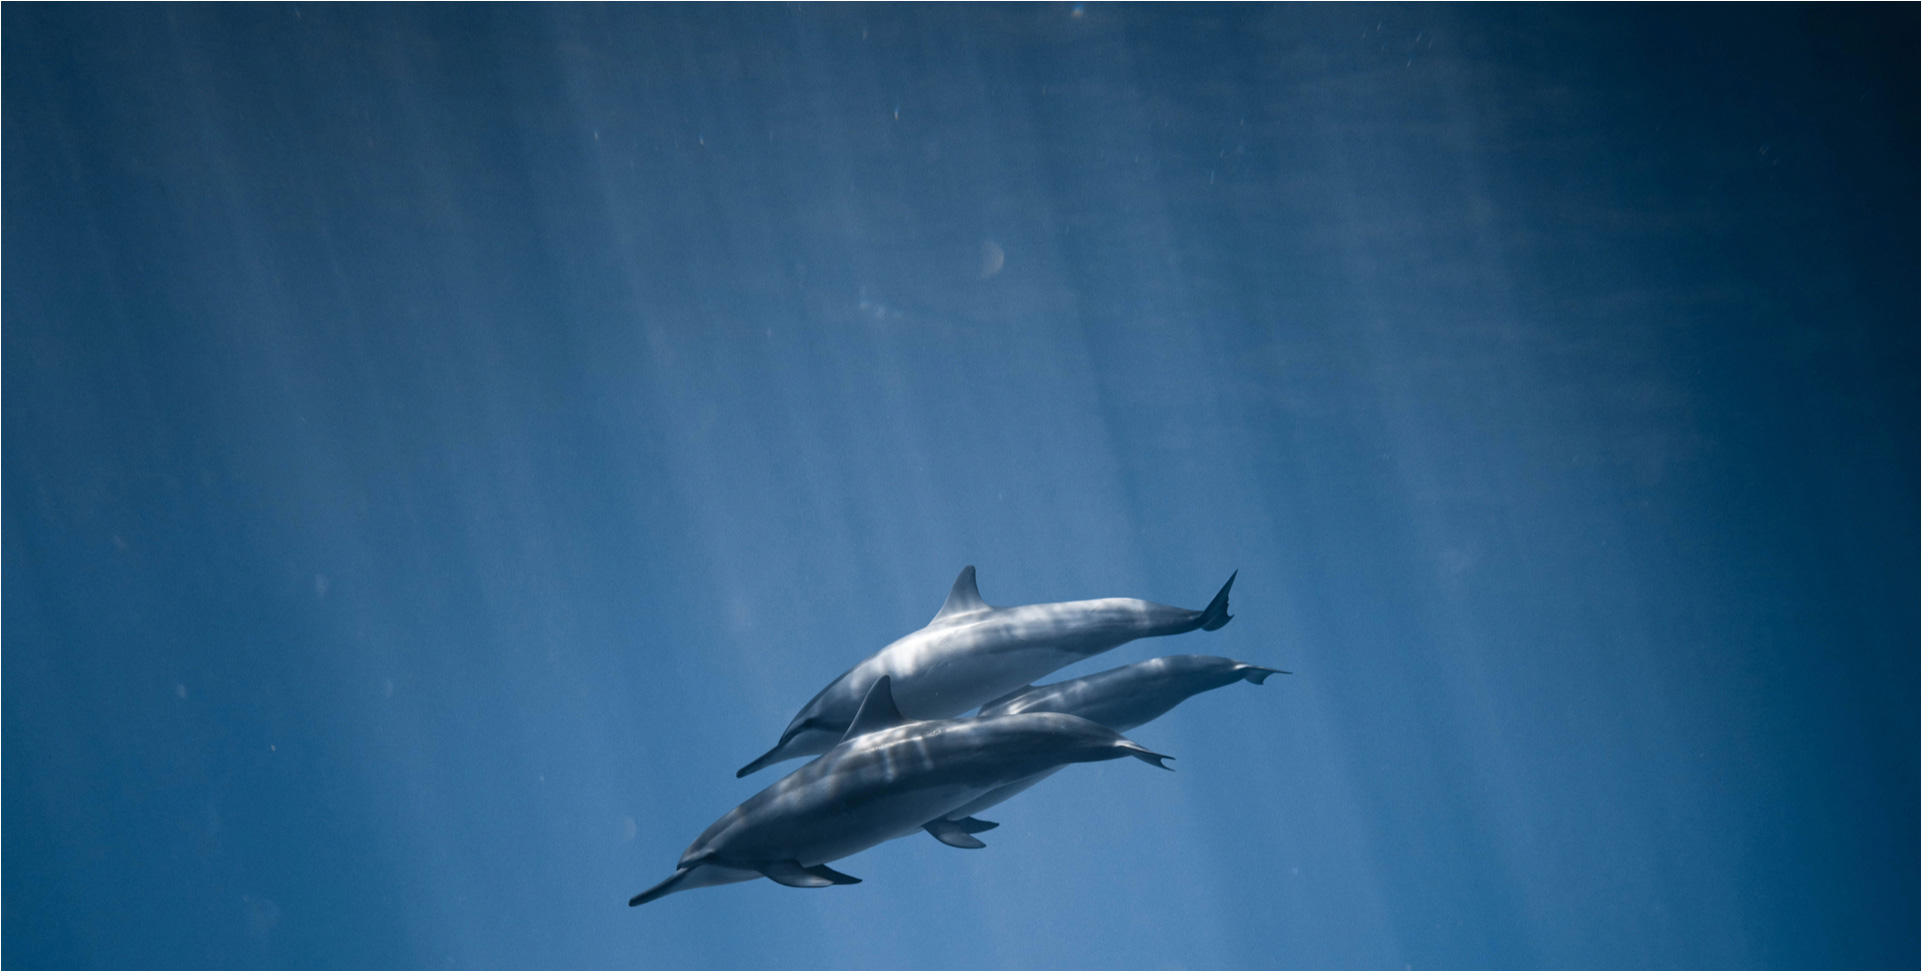
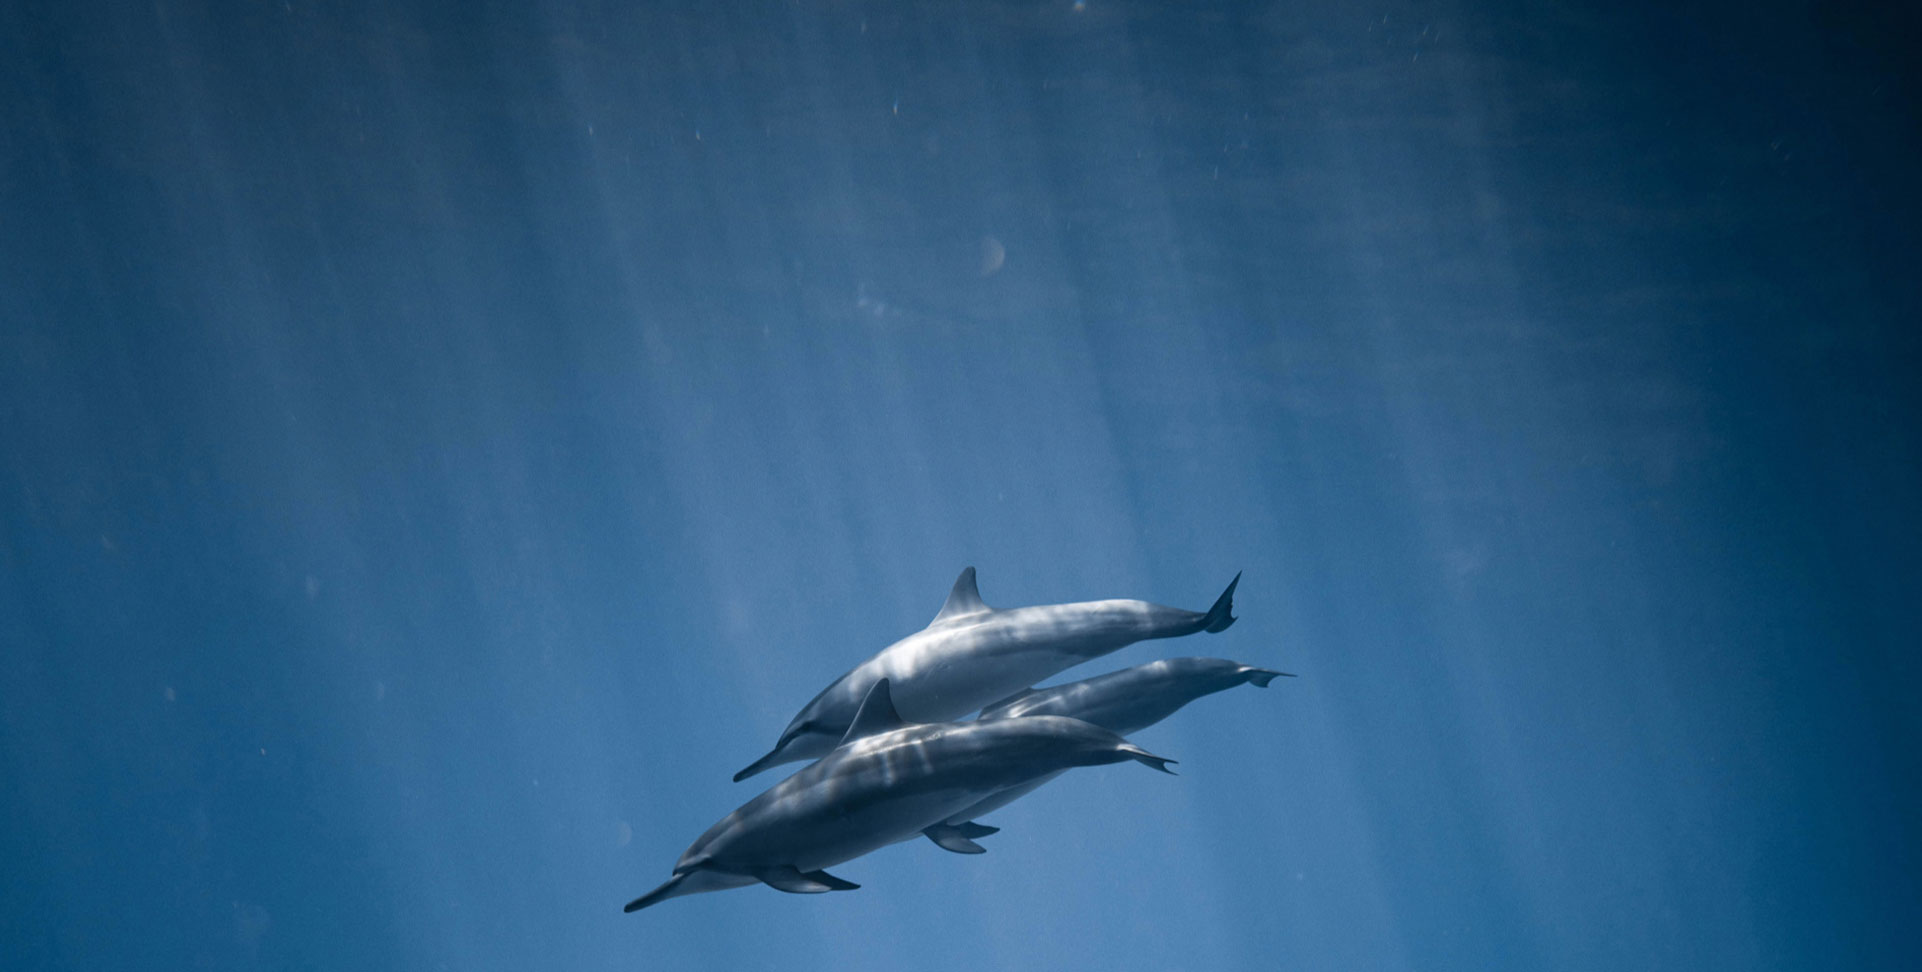
todo :home page screen adaptive

diff --git a/src/pages/home/index.jsx b/src/pages/home/index.jsx
@@ -22,17 +22,18 @@ class Home extends Language {
   componentDidMount() {
     window.addEventListener('scroll', () => {
       const scrollTop = getScrollTop();
-      if (scrollTop > 66 && scrollTop <= 663) {
+      const offsetHeight = document.querySelector('.top-section').offsetHeight - 66;
+      if (scrollTop > 66 && scrollTop <= offsetHeight) {
         this.setState({
           headerType: 'normal',
         });
-      } else if (scrollTop > 663) {
+      } else if (scrollTop > offsetHeight) {
         this.setState({
           headerType: 'dark',
         });
       } else {
         this.setState({
-          headerType: 'dark',
+          headerType: 'primary',
         });
       }
     });
@@ -56,6 +57,7 @@ class Home extends Language {
     return (
       <div className="home-page">
         <section className="top-section">
+          <img src="/img/banner.jpg" />
           <Header
             currentKey="home"
             type={headerType}

diff --git a/src/pages/home/index.scss b/src/pages/home/index.scss
@@ -11,11 +11,9 @@
 .home-page {
   .top-section {
     position: relative;
-    height: 720px;
-    //background-image: linear-gradient(0deg, $startColor 0%, $intermediateColor 51%, $endColor 100%);
-    background-image: url(/img/banner.jpg);
-    background-position: center;
-    background-size: cover;
+    img {
+      width: 100%;
+    }
     .animation {
       position: absolute;
       width: 6px;

diff --git a/src/components/header/index.scss b/src/components/header/index.scss
@@ -88,6 +88,7 @@
         .submenu-title-wrapper {
           a {
             color: #fff;
+            opacity:0.6;
             font-family: Avenir-Medium;
           }
         }
